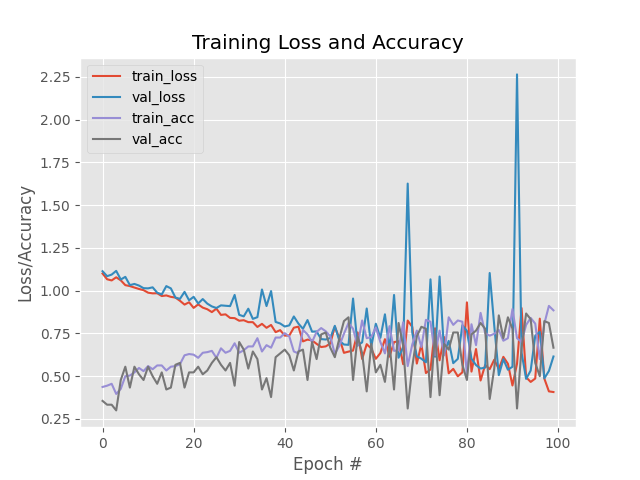
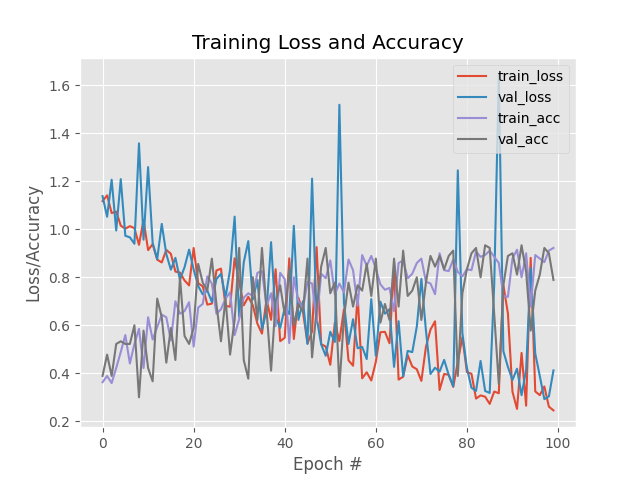
Adiciona rede convolucional(í´²amém?)

diff --git a/chapter10-neural_network_fundamentals/convulucional.py b/chapter10-neural_network_fundamentals/convulucional.py
@@ -1,0 +1,113 @@
+# USAGE
+# python keras_animals.py --output output/keras_animals.png
+import argparse
+import os
+
+os.environ["KERAS_BACKEND"] = "plaidml.keras.backend"
+
+import plaidml.keras
+from plaidml.keras import backend as K
+
+import matplotlib.pyplot as plt
+import numpy as np
+from imutils import paths
+from sklearn.metrics import classification_report
+from sklearn.model_selection import train_test_split
+from sklearn.preprocessing import LabelBinarizer, StandardScaler
+from tensorflow.keras import backend as K
+from tensorflow.keras import Input
+from tensorflow.keras.layers import (Activation, Conv2D, Dense, Dropout,
+                                     Flatten, MaxPooling2D)
+from tensorflow.keras.models import Sequential
+from tensorflow.keras.optimizers import SGD
+
+from pyimagesearch.datasets import SimpleDatasetLoader
+from pyimagesearch.preprocessing import (ImageToArrayPreprocessor,
+                                         SimplePreprocessor)
+
+# construct the argument parse and parse the arguments
+ap = argparse.ArgumentParser()
+ap.add_argument("-d", "--dataset", required=True,
+	help="path to input dataset")
+ap.add_argument("-e", "--epoc", required=True,
+    help="epocs")
+args = vars(ap.parse_args())
+
+# grab the list of images that we'll be describing
+print("[INFO] loading images...")
+imagePaths = list(paths.list_images(args["dataset"]))
+
+# initialize the image preprocessors
+sp = SimplePreprocessor(32, 32)
+iap = ImageToArrayPreprocessor()
+
+# load the dataset from disk then scale the raw pixel intensities
+# to the range [0, 1]
+sdl = SimpleDatasetLoader(preprocessors=[sp, iap])
+(data, labels) = sdl.load(imagePaths, verbose=500)
+data = data.astype("float") / 255.0
+
+# partition the data into training and testing splits using 75% of
+# the data for training and the remaining 25% for testing
+(trainX, testX, trainY, testY) = train_test_split(data, labels,
+	test_size=0.25, random_state=42)
+
+# convert the labels from integers to vectors
+lb = LabelBinarizer()
+trainY = lb.fit_transform(trainY)
+testY = lb.fit_transform(testY)
+
+width = 32
+height = 32
+depth = 3
+input_shape = (width, height, 3)
+
+if K.image_data_format() == "channels_first":
+    input_shape = (3, height, width)
+model = Sequential (
+    [
+        Input(shape = input_shape),
+        Conv2D(32, (3, 3), input_shape=input_shape, activation="relu"),
+        MaxPooling2D((2, 2)),
+        Conv2D(64, (3, 3), input_shape=input_shape, activation="relu"),
+        MaxPooling2D((2, 2)),
+        Flatten(),
+        Dense(128, activation="relu"),
+        Dropout(0.5),
+        Dense(64, activation="relu"),
+        Dropout(0.5),
+        Dense(32, activation="relu"),
+        Dense(3),
+        Activation("softmax")
+    ]
+)
+opt = SGD(lr=0.005)
+model.compile(loss="categorical_crossentropy", optimizer=opt,
+	metrics=["accuracy"])
+
+epoc = int(args["epoc"])
+
+# train the network
+print("[INFO] training network...")
+H = model.fit(trainX, trainY, validation_data=(testX, testY),
+	batch_size=32, epochs=epoc, verbose=1)
+
+# evaluate the network
+print("[INFO] evaluating network...")
+predictions = model.predict(testX, batch_size=32)
+print(classification_report(testY.argmax(axis=1),
+	predictions.argmax(axis=1), target_names=lb.classes_))
+
+# plot the training loss and accuracy
+plt.style.use("ggplot")
+plt.figure()
+plt.plot(np.arange(0, epoc), H.history["loss"], label="train_loss")
+plt.plot(np.arange(0, epoc), H.history["val_loss"], label="val_loss")
+plt.plot(np.arange(0, epoc), H.history["accuracy"], label="train_acc")
+plt.plot(np.arange(0, epoc), H.history["val_accuracy"], label="val_acc")
+plt.title("Training Loss and Accuracy")
+plt.xlabel("Epoch #")
+plt.ylabel("Loss/Accuracy")
+plt.legend()
+
+

diff --git a/chapter10-neural_network_fundamentals/pyimagesearch/preprocessing/imagetoarraypreprocessor.py b/chapter10-neural_network_fundamentals/pyimagesearch/preprocessing/imagetoarraypreprocessor.py
@@ -1,0 +1,12 @@
+# import the necessary packages
+from tensorflow.keras.preprocessing.image import img_to_array
+
+class ImageToArrayPreprocessor:
+	def __init__(self, dataFormat=None):
+		# store the image data format
+		self.dataFormat = dataFormat
+
+	def preprocess(self, image):
+		# apply the Keras utility function that correctly rearranges
+		# the dimensions of the image
+		return img_to_array(image, data_format=self.dataFormat)

diff --git a/chapter10-neural_network_fundamentals/pyimagesearch/preprocessing/__init__.py b/chapter10-neural_network_fundamentals/pyimagesearch/preprocessing/__init__.py
@@ -1,2 +1,3 @@
 # import the necessary packages
 from .simplepreprocessor import SimplePreprocessor
+from .imagetoarraypreprocessor import ImageToArrayPreprocessor
